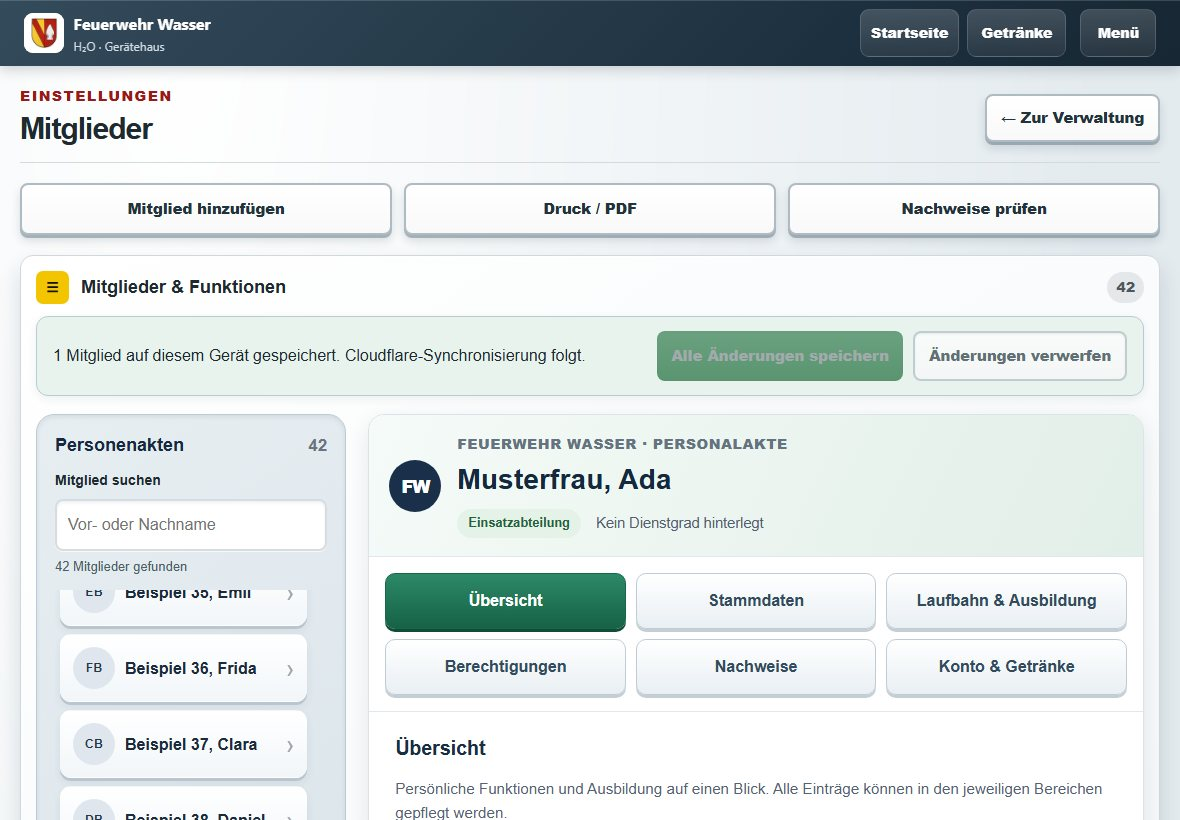
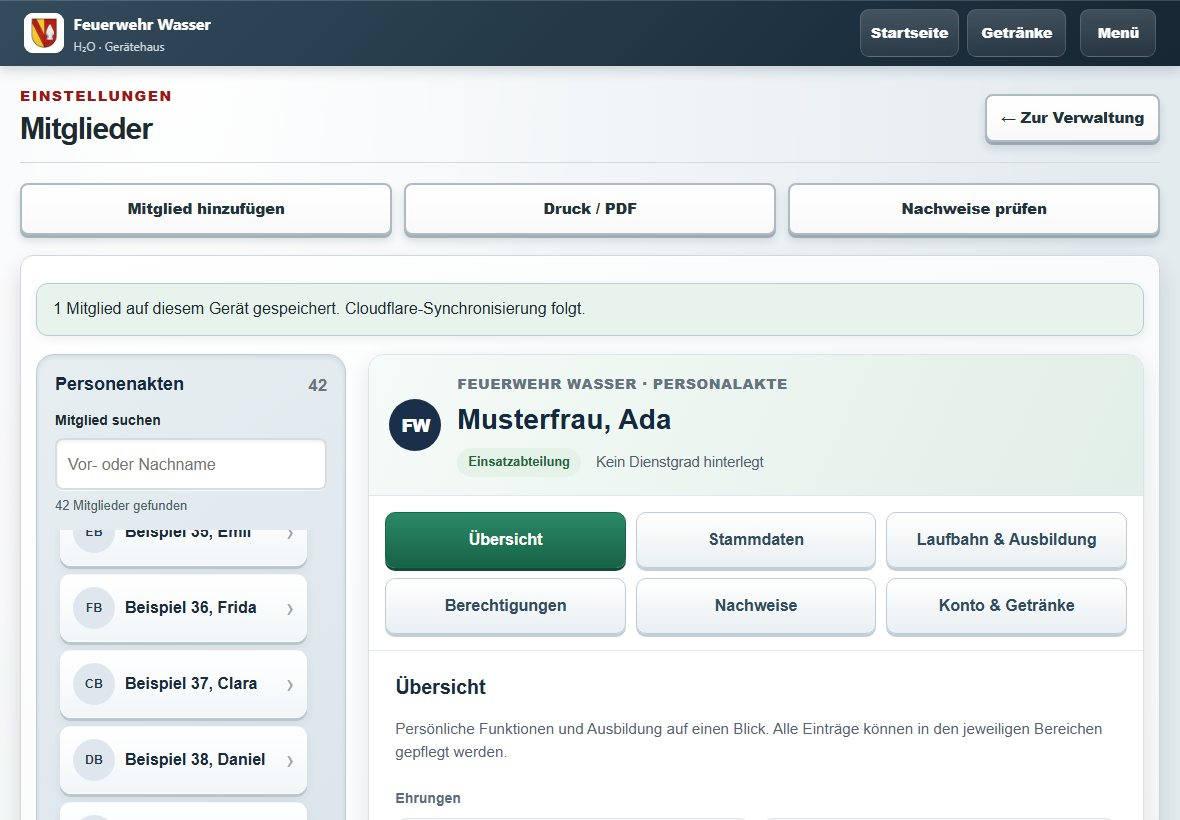
Keep clean member records compact on landscape tablets

Changed region(s): [[0.0305, 0.3049, 0.9763, 1.0], [0.3356, 0.8841, 0.9458, 1.0], [0.9458, 0.3354, 0.9763, 0.3659]]

diff --git a/css/features/member-records.css b/css/features/member-records.css
@@ -132,12 +132,14 @@
 #settingsMembersView #admin-members>header{display:none}
 #settingsMembersView .admin-members-grid{display:flex!important;flex-direction:column;gap:20px}
 #settingsMembersView .member-admin-panel{order:-1}
+#settingsMembersView .member-admin-panel>.panel-heading{display:none}
 #settingsMembersView .member-add-panel{scroll-margin-top:150px}
 #settingsMembersView #memberPrintControls,#settingsMembersView #portal-evidence-overview{scroll-margin-top:150px}
 #settingsMembersView .member-save-bar{position:static;display:flex;align-items:center;justify-content:space-between;gap:14px;background:#e9f3ee}
 #settingsMembersView .member-save-bar p{margin:0}
 #settingsMembersView .member-save-bar>div{flex:0 1 auto;flex-wrap:nowrap}
 #settingsMembersView .member-save-bar button{min-height:50px;width:auto;white-space:normal}
+#settingsMembersView .member-save-bar:has(#membersSaveAll:disabled):has(#membersDiscardAll:disabled)>div{display:none}
 #memberAdmin .person-record-hero{padding:18px 20px}
 #memberAdmin .person-record-hero-icon{width:52px;height:52px}
 #memberAdmin .person-record-directory{max-height:clamp(300px,60dvh,720px);overflow-y:auto;overscroll-behavior:contain;padding:0 5px 6px;scrollbar-gutter:stable}
